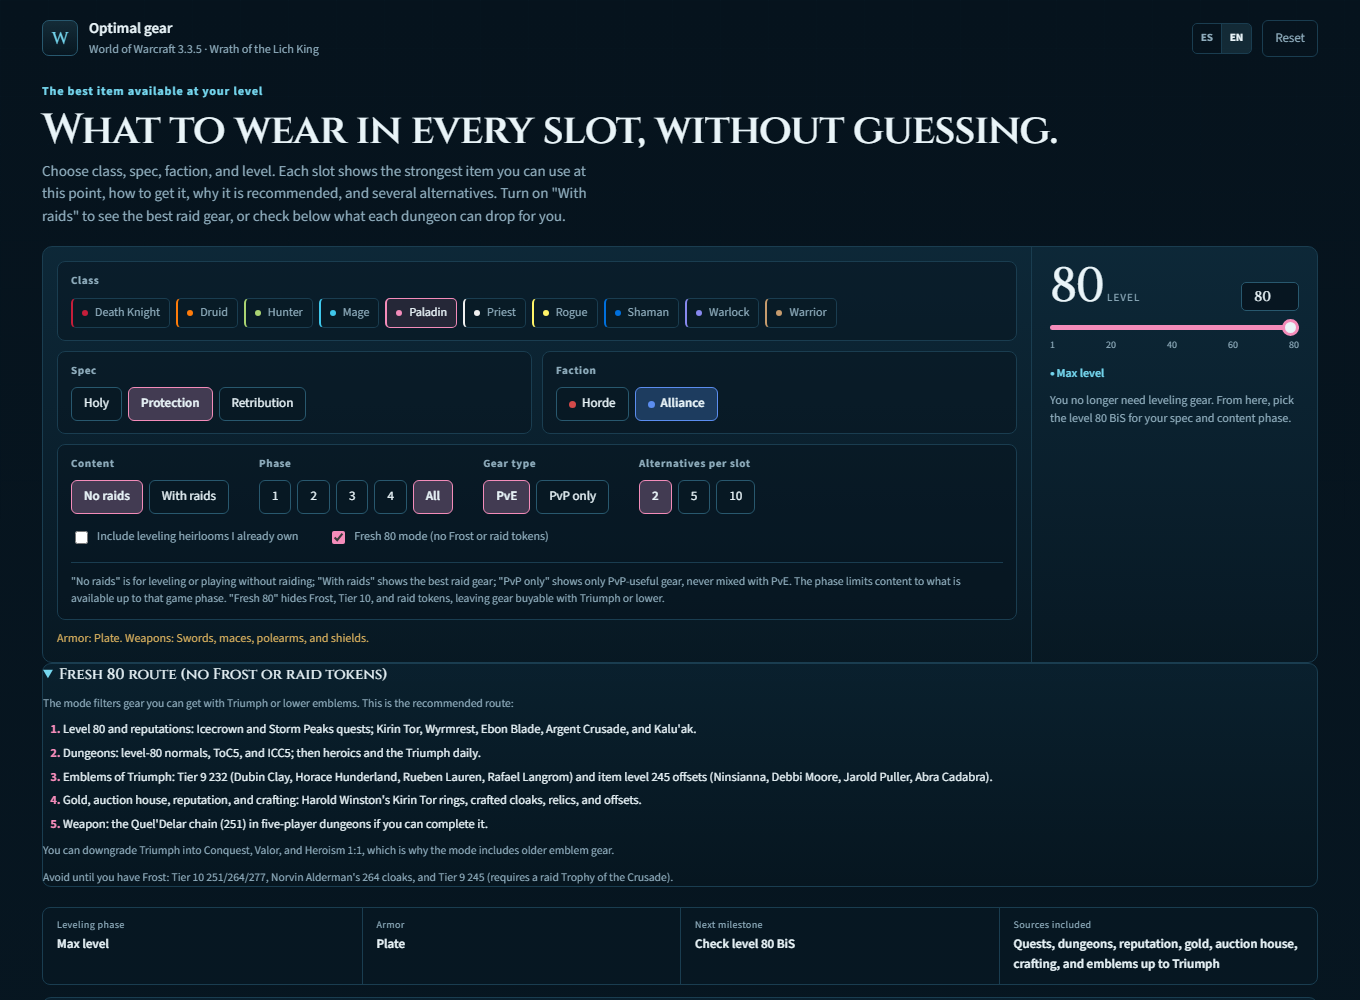
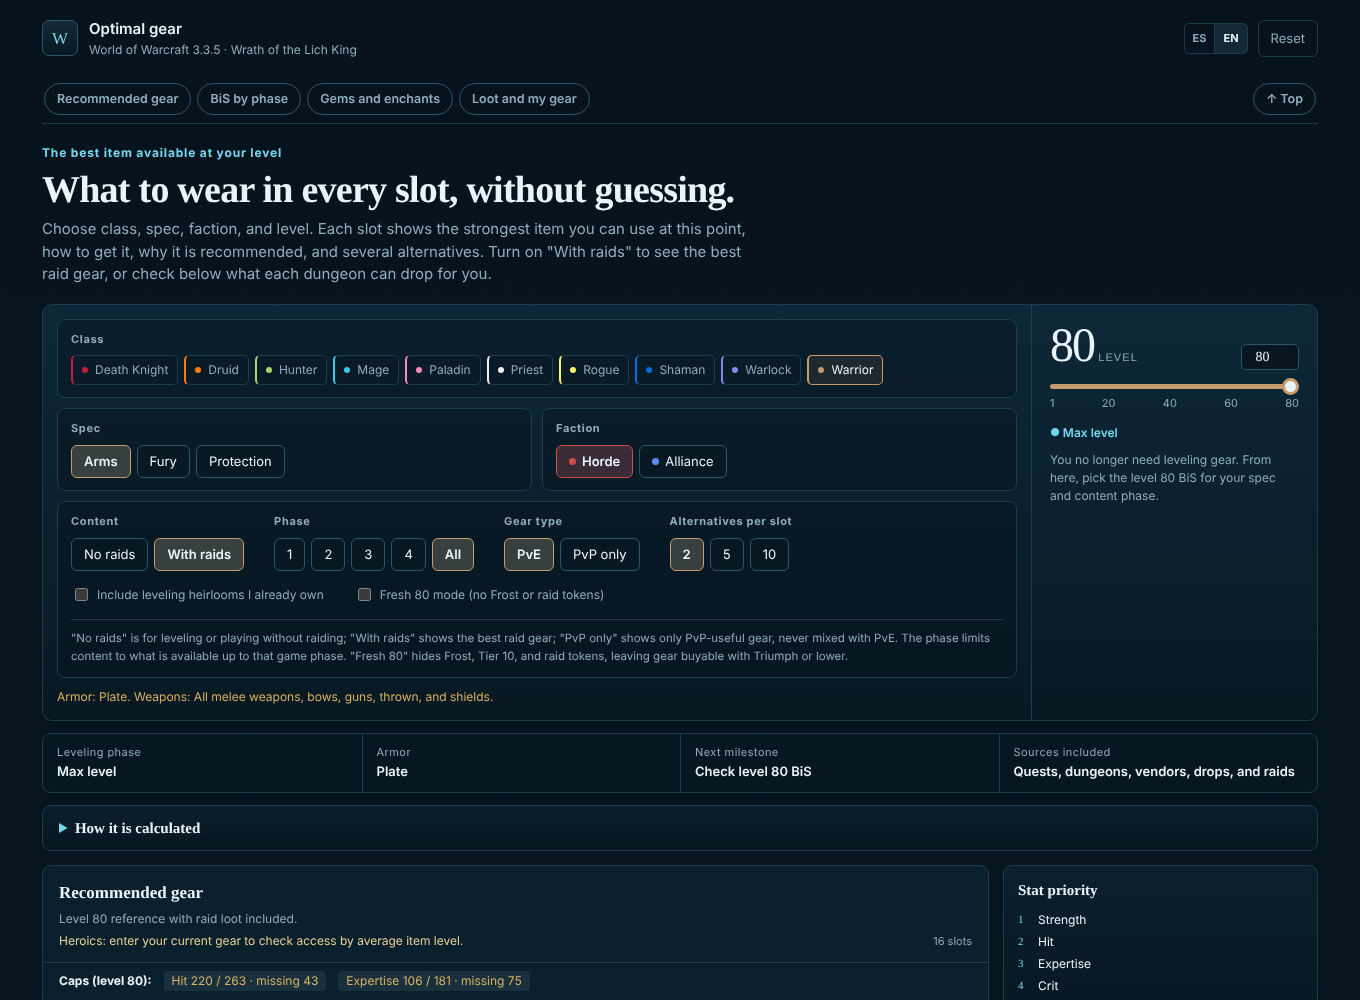
docs: document bundled fonts and compressed build

diff --git a/README.es.md b/README.es.md
@@ -38,6 +38,7 @@ Incluye las 10 clases de WotLK, 31 especialidades, niveles 1–80, Horda/Alianza
 - **Reliquias de subida (heirlooms) opcionales**: las 35 reliquias de subida tienen estadísticas exactas por nivel y cambio de tipo de armadura antes del nivel 40. Quedan fuera de las recomendaciones salvo que marques «Incluir reliquias de subida (heirlooms) que ya tengo», porque sus vendedores requieren moneda de nivel 80.
 - **Tooltips de EVOWOW** para todos los objetos.
 - **Diseño responsive** y selección guardada en `localStorage`.
+- **Build autocontenido y comprimido**: la página generada incrusta los datos y comprime su JavaScript con gzip, y Cinzel / Source Sans 3 se incluyen en local.
 - **Sin backend** y sin compilación para ver la página.
 
 ## Cómo funciona
@@ -53,7 +54,7 @@ El ranking es una heurística práctica, no un simulador de combate: ordena por 
 
 Clona el repositorio y abre `tolltip.html` en el navegador.
 
-Necesitas conexión a internet para las fuentes de Google y los tooltips de EVOWOW. La página funciona sin servidor local.
+Solo necesitas conexión a internet para los tooltips de EVOWOW; las fuentes se incluyen en local. La página funciona sin servidor local.
 
 ## Generar desde el código
 
@@ -64,8 +65,9 @@ Requisitos:
 - Playwright + Chromium para la prueba de humo
 
 ```bash
-npm install
-python -m pip install playwright
+npm ci
+python -m pip install -r requirements.txt
+python -m playwright install chromium
 python -m playwright install chromium
 
 python scripts/fetch_raw.py
@@ -90,6 +92,9 @@ python tests/spec_weights.py
 python tests/features.py
 python tests/reference_sets.py
 python tests/reference_ids.py
+python tests/extras.py
+python tests/ux.py
+python tests/run_all.py
 ```
 
 `build_page.py` ejecuta `npm run build` con Vite y escribe la página autocontenida `tolltip.html` en el repositorio y, si existe, también en `~/Desktop/tolltip.html`. `check_reference.py` audita las 31 especialidades a nivel 80 contra las listas BiS de Icy Veins en `tests/reference_bis_ids.json` (por ID, Icy Veins + Wowhead) e informa de aciertos y coincidencias exactas; `--min=497` exige el gate actual y `--strict` es el objetivo final de 518/518. `sockets.py` comprueba los colores y el socket meta, `gems.py` la activación de la meta-gema y el bonus de socket, y `optimizer.py` la búsqueda en haz, el rendimiento (<750 ms) y que el nivel 79 no la use. `heirlooms.py` cubre el escalado por nivel, el filtro fuera de especialidad, las armas a dos manos y la búsqueda de reliquias; `features.py` cubre gemas/sockets, bonus de set y reliquias curadas; `reference_sets.py` valida las piezas de los sets T10; `reference_ids.py` valida la referencia por ID; `spec_weights.py` comprueba las 31 especialidades a nivel 80; `fresh80.py` comprueba el filtro Recién 80 en las 31 especialidades y ambas facciones, además del checkbox, la ruta, la persistencia y su desactivación en PvP/«Con bandas».
@@ -98,6 +103,7 @@ python tests/reference_ids.py
 
 ```text
 .
+├── assets/fonts/          # Cinzel y Source Sans 3 incluidas (OFL)
 ├── data/                  # gear_data.json generado (los datos crudos se ignoran)
 ├── docs/                  # capturas para el README
 ├── legacy/                # implementación anterior, solo reliquias
@@ -143,7 +149,7 @@ Este proyecto no está afiliado a Blizzard Entertainment. World of Warcraft y Wr
 - Algunos slots de niveles muy bajos pueden no tener objetos con estadísticas conocidas.
 - La página muestra el mejor objeto y alternativas por slot, no todos los objetos. Un legendario solo aparece si puntúa para la especialidad, nivel, facción, modo, fase y filtro PvP seleccionados. Los legendarios de nivel bajo o que dependen de una combinación no modelada pueden no aparecer.
 - Las combinaciones de armas cubren Frost Death Knight con dos armas de una mano y Titan's Grip de Fury (dos armas a dos manos). Otros setups especiales siguen simplificados, así que aún pueden faltar algunos objetos BiS.
-- La página final incluye los datos incrustados, así que `tolltip.html` pesa alrededor de 6,3 MB.
+- La página final incluye los datos incrustados y comprime su código con gzip; `tolltip.html` pesa alrededor de 1,4 MB (el build de Vite sin comprimir ronda los 6,6 MB).
 
 ## Contribuir
 

diff --git a/README.md b/README.md
@@ -38,6 +38,7 @@ It supports all 10 WotLK classes, 31 specializations, levels 1–80, Horde/Allia
 - **Optional heirlooms**: all 35 leveling heirlooms have exact stats per level and armor-type changes before level 40. They stay out of recommendations unless you mark “Include leveling heirlooms I already own”, because their vendors require level-80 currency.
 - **EVOWOW tooltips** for every item.
 - **Responsive layout** and persisted selection (`localStorage`).
+- **Self-contained, compressed build**: the generated page inlines the data and compresses its JavaScript with gzip, and Cinzel / Source Sans 3 are bundled locally.
 - **No backend** and no build step required to view the page.
 
 ## How it works
@@ -53,7 +54,7 @@ The ranking is a practical heuristic, not a combat simulator: it sorts by a weig
 
 Clone the repository and open `tolltip.html` in a browser.
 
-Internet access is required for Google Fonts and EVOWOW item tooltips. The page itself works without a local server.
+Internet access is required only for EVOWOW item tooltips; the fonts are bundled locally. The page itself works without a local server.
 
 ## Build from source
 
@@ -64,8 +65,9 @@ Requirements:
 - Playwright + Chromium for the smoke test
 
 ```bash
-npm install
-python -m pip install playwright
+npm ci
+python -m pip install -r requirements.txt
+python -m playwright install chromium
 python -m playwright install chromium
 
 python scripts/fetch_raw.py
@@ -90,6 +92,9 @@ python tests/spec_weights.py
 python tests/features.py
 python tests/reference_sets.py
 python tests/reference_ids.py
+python tests/extras.py
+python tests/ux.py
+python tests/run_all.py
 ```
 
 `build_page.py` runs `npm run build` with Vite and writes the single-file `tolltip.html` in the repository and, when available, to `~/Desktop/tolltip.html`. `check_reference.py` audits all 31 level-80 specializations against the Icy Veins BiS lists in `tests/reference_bis_ids.json` (ID-based, Icy Veins + Wowhead) and reports hit/exact rates; `--min=497` enforces the current gate and `--strict` is the final 518/518 target. `sockets.py` covers socket colors and meta sockets, `gems.py` covers meta-gem activation and socket bonuses, and `optimizer.py` covers the beam search, performance (<750 ms), and that level 79 does not use it. `heirlooms.py` covers level scaling, off-spec filtering, two-handed weapons, and relic search; `features.py` covers gems/sockets, set bonuses, and curated relics; `reference_sets.py` validates the T10 set pieces; `reference_ids.py` validates the ID-based reference; `spec_weights.py` checks all 31 level-80 specializations; `fresh80.py` checks the Fresh 80 filter across all 31 specializations and both factions, plus the checkbox, route, persistence, and disabling in PvP/With raids.
@@ -98,6 +103,7 @@ python tests/reference_ids.py
 
 ```text
 .
+├── assets/fonts/          # bundled Cinzel and Source Sans 3 (OFL)
 ├── data/                  # generated gear_data.json (raw data is ignored)
 ├── docs/                  # README screenshots
 ├── legacy/                # previous heirloom-only implementation
@@ -142,7 +148,7 @@ This project is not affiliated with Blizzard Entertainment. World of Warcraft an
 - Some very low-level slots may legitimately have no item with known stats.
 - The page shows the best item plus alternatives per slot, not every item. A legendary only appears if it ranks for the selected spec, level, faction, mode, phase, and PvP filter. Low-level legendaries or ones that depend on an unmodeled setup may not appear.
 - Weapon combinations cover dual-wield Frost Death Knights and Fury's Titan's Grip (two two-handed weapons). Other special setups remain simplified, so some BiS items may still be missing.
-- The generated page embeds the item data, so `tolltip.html` is intentionally large (around 6.3 MB).
+- The generated page embeds the item data and gzip-compresses its code; `tolltip.html` is about 1.4 MB (the uncompressed Vite build is about 6.6 MB).
 
 ## Contributing
 

diff --git a/CONTRIBUTING.es.md b/CONTRIBUTING.es.md
@@ -27,8 +27,9 @@ Requisitos:
 ```bash
 git clone https://github.com/veksir/wotlk-leveling-gear.git
 cd wotlk-leveling-gear
-npm install
-python -m pip install playwright
+npm ci
+python -m pip install -r requirements.txt
+python -m playwright install chromium
 python -m playwright install chromium
 ```
 
@@ -66,11 +67,13 @@ python tests/reference_ids.py
 
 - `src/index.html`: estructura de la página y DOM. Carga `styles/app.css` y `js/main.js`.
 - `src/styles/app.css`: todos los estilos de la página.
+- `src/styles/fonts.css`: declaraciones `@font-face` locales de las fuentes incluidas.
+- `assets/fonts/`: archivos WOFF2 de Cinzel y Source Sans 3 con sus licencias OFL.
 - `src/js/`: módulos ES del cliente (`core`, `data`, `engine`, `heroic`, `equipment`, `format`, `loot`, `bis`, `render`, `main`). `data.js` importa `data/gear_data.json`; `main.js` conecta los eventos y expone los globals de las pruebas.
 - `scripts/build_item_db.py`: parseo de objetos, estadísticas, niveles requeridos, armadura/armas y fuentes.
 - `scripts/build_recommendations.py`: reglas por clase/especialidad, filtro de facción, elegibilidad de armadura/armas, puntuación y ranking. Las prioridades de nivel 80 están en `data/spec_weights.json`.
 - `scripts/fetch_heirloom_stats.py`: estadísticas de reliquias nivel a nivel desde WoWWiki archive y Wowhead.
-- `scripts/build_page.py`: ejecuta el build single-file de Vite y copia `dist/index.html` a `tolltip.html`.
+- `scripts/build_page.py`: ejecuta el build single-file de Vite, comprime el módulo con gzip dentro de un bootstrap pequeño y escribe `tolltip.html`.
 - `tests/smoke.py`: prueba de humo en navegador.
 - `tests/sockets.py`: colores de socket, sockets meta y excepciones como el objeto 23232.
 - `tests/gems.py`: activación de meta-gemas, elección de gemas por color y bonus de socket.
@@ -83,6 +86,7 @@ python tests/reference_ids.py
 - `tests/reference_ids.py`: comprueba que cada ID de referencia existe, tiene el nombre correcto y pertenece a una ranura compatible.
 - `tests/spec_weights.py`: las 31 especialidades a nivel 80.
 - `tests/fresh80.py`: cobertura de Recién 80 en las 31 especialidades y ambas facciones, además del checkbox, la ruta, la persistencia y su desactivación en PvP/«Con bandas».
+- `tests/extras.py` y `tests/ux.py`: regresiones de funcionalidades y usabilidad; `tests/run_all.py` ejecuta la suite completa.
 
 **No** edites `tolltip.html` a mano. Es generado. Después de cambiar los módulos, los estilos o los datos, vuelve a ejecutar la generación.
 

diff --git a/CONTRIBUTING.md b/CONTRIBUTING.md
@@ -27,8 +27,9 @@ Requirements:
 ```bash
 git clone https://github.com/veksir/wotlk-leveling-gear.git
 cd wotlk-leveling-gear
-npm install
-python -m pip install playwright
+npm ci
+python -m pip install -r requirements.txt
+python -m playwright install chromium
 python -m playwright install chromium
 ```
 
@@ -66,11 +67,13 @@ python tests/reference_ids.py
 
 - `src/index.html`: page shell and DOM. It loads `styles/app.css` and `js/main.js`.
 - `src/styles/app.css`: all page styles.
+- `src/styles/fonts.css`: local `@font-face` declarations for the bundled fonts.
+- `assets/fonts/`: Cinzel and Source Sans 3 WOFF2 files and their OFL licenses.
 - `src/js/`: client-side ES modules (`core`, `data`, `engine`, `heroic`, `equipment`, `format`, `loot`, `bis`, `render`, `main`). `data.js` imports `data/gear_data.json`; `main.js` wires events and exposes the test globals.
 - `scripts/build_item_db.py`: item parsing, stats, required levels, armor/weapon metadata, and sources.
 - `scripts/build_recommendations.py`: class/spec rules, faction filtering, armor/weapon eligibility, scoring, and ranking. Level-80 priorities live in `data/spec_weights.json`.
 - `scripts/fetch_heirloom_stats.py`: level-by-level heirloom stats from the WoWWiki archive and Wowhead.
-- `scripts/build_page.py`: runs the Vite single-file build and copies `dist/index.html` to `tolltip.html`.
+- `scripts/build_page.py`: runs the Vite single-file build, gzip-compresses the module script into a small bootstrap, and writes `tolltip.html`.
 - `tests/smoke.py`: browser smoke test.
 - `tests/sockets.py`: socket colors, meta sockets, and exceptions such as item 23232.
 - `tests/gems.py`: meta-gem activation, gem choice by color, and socket bonuses.
@@ -83,6 +86,7 @@ python tests/reference_ids.py
 - `tests/reference_ids.py`: validates that every ID reference exists, has the right name, and belongs to a compatible slot.
 - `tests/spec_weights.py`: all 31 level-80 specializations.
 - `tests/fresh80.py`: Fresh 80 coverage for all 31 specializations and both factions, plus the checkbox, route, persistence, and disabling in PvP/With raids.
+- `tests/extras.py` and `tests/ux.py`: feature and usability regressions; `tests/run_all.py` runs the full suite.
 
 Do **not** edit `tolltip.html` by hand. It is generated. After changing the source modules, styles, or data, run the build again.
 
